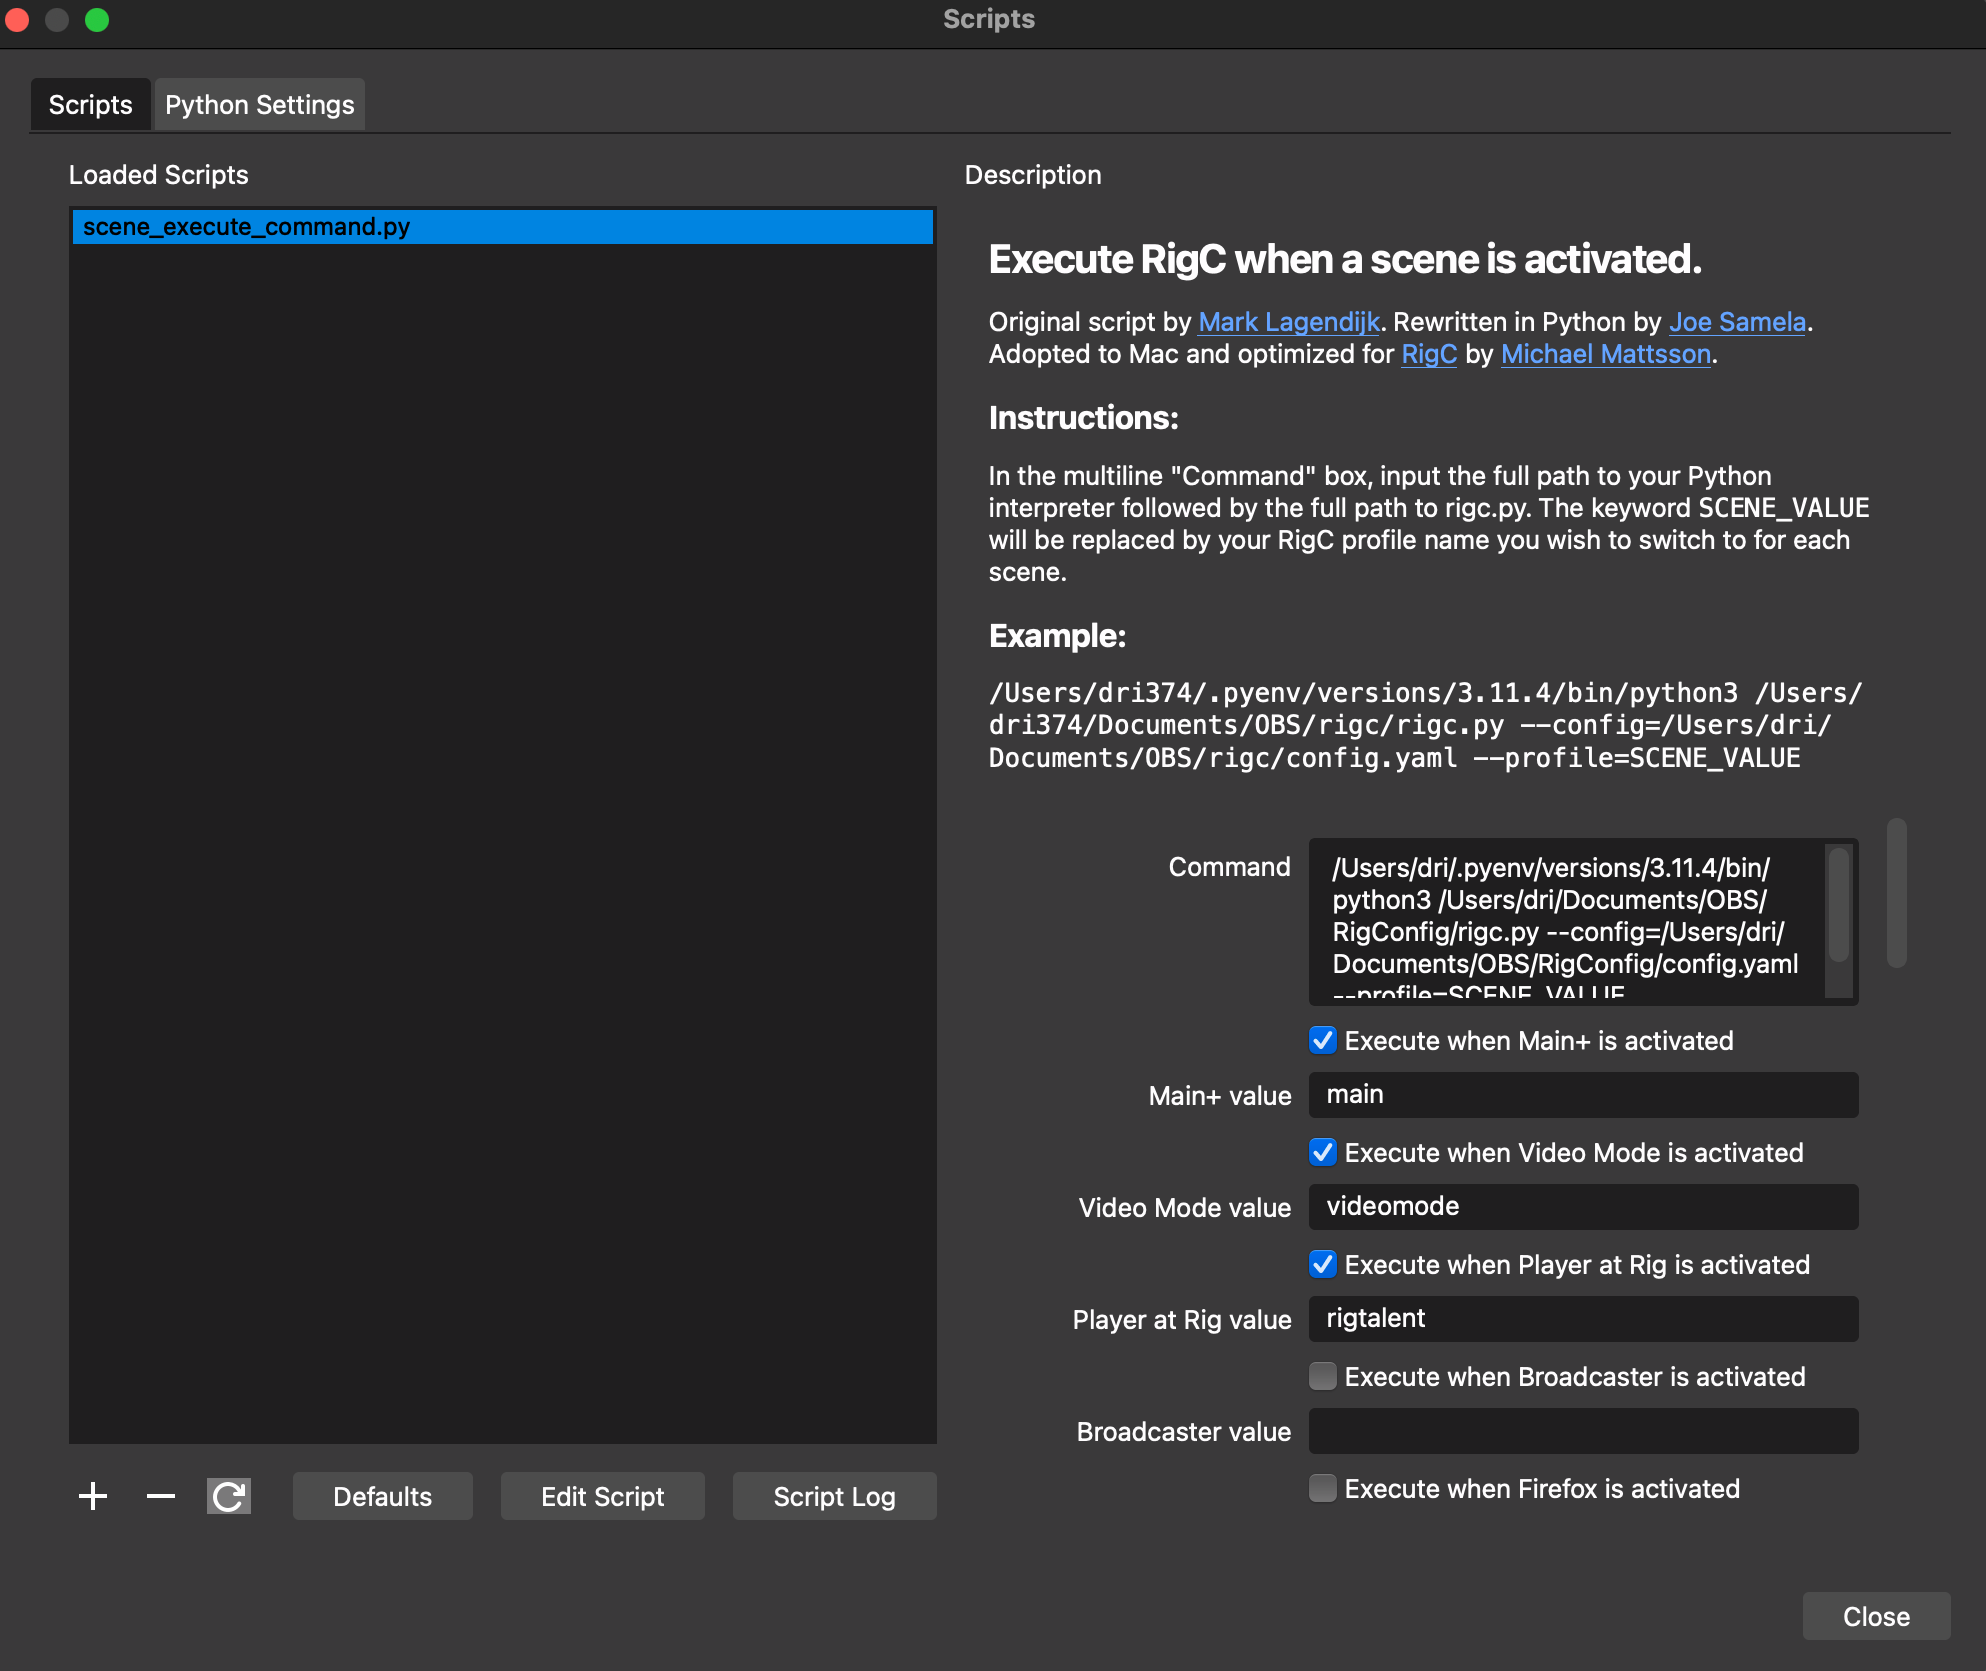
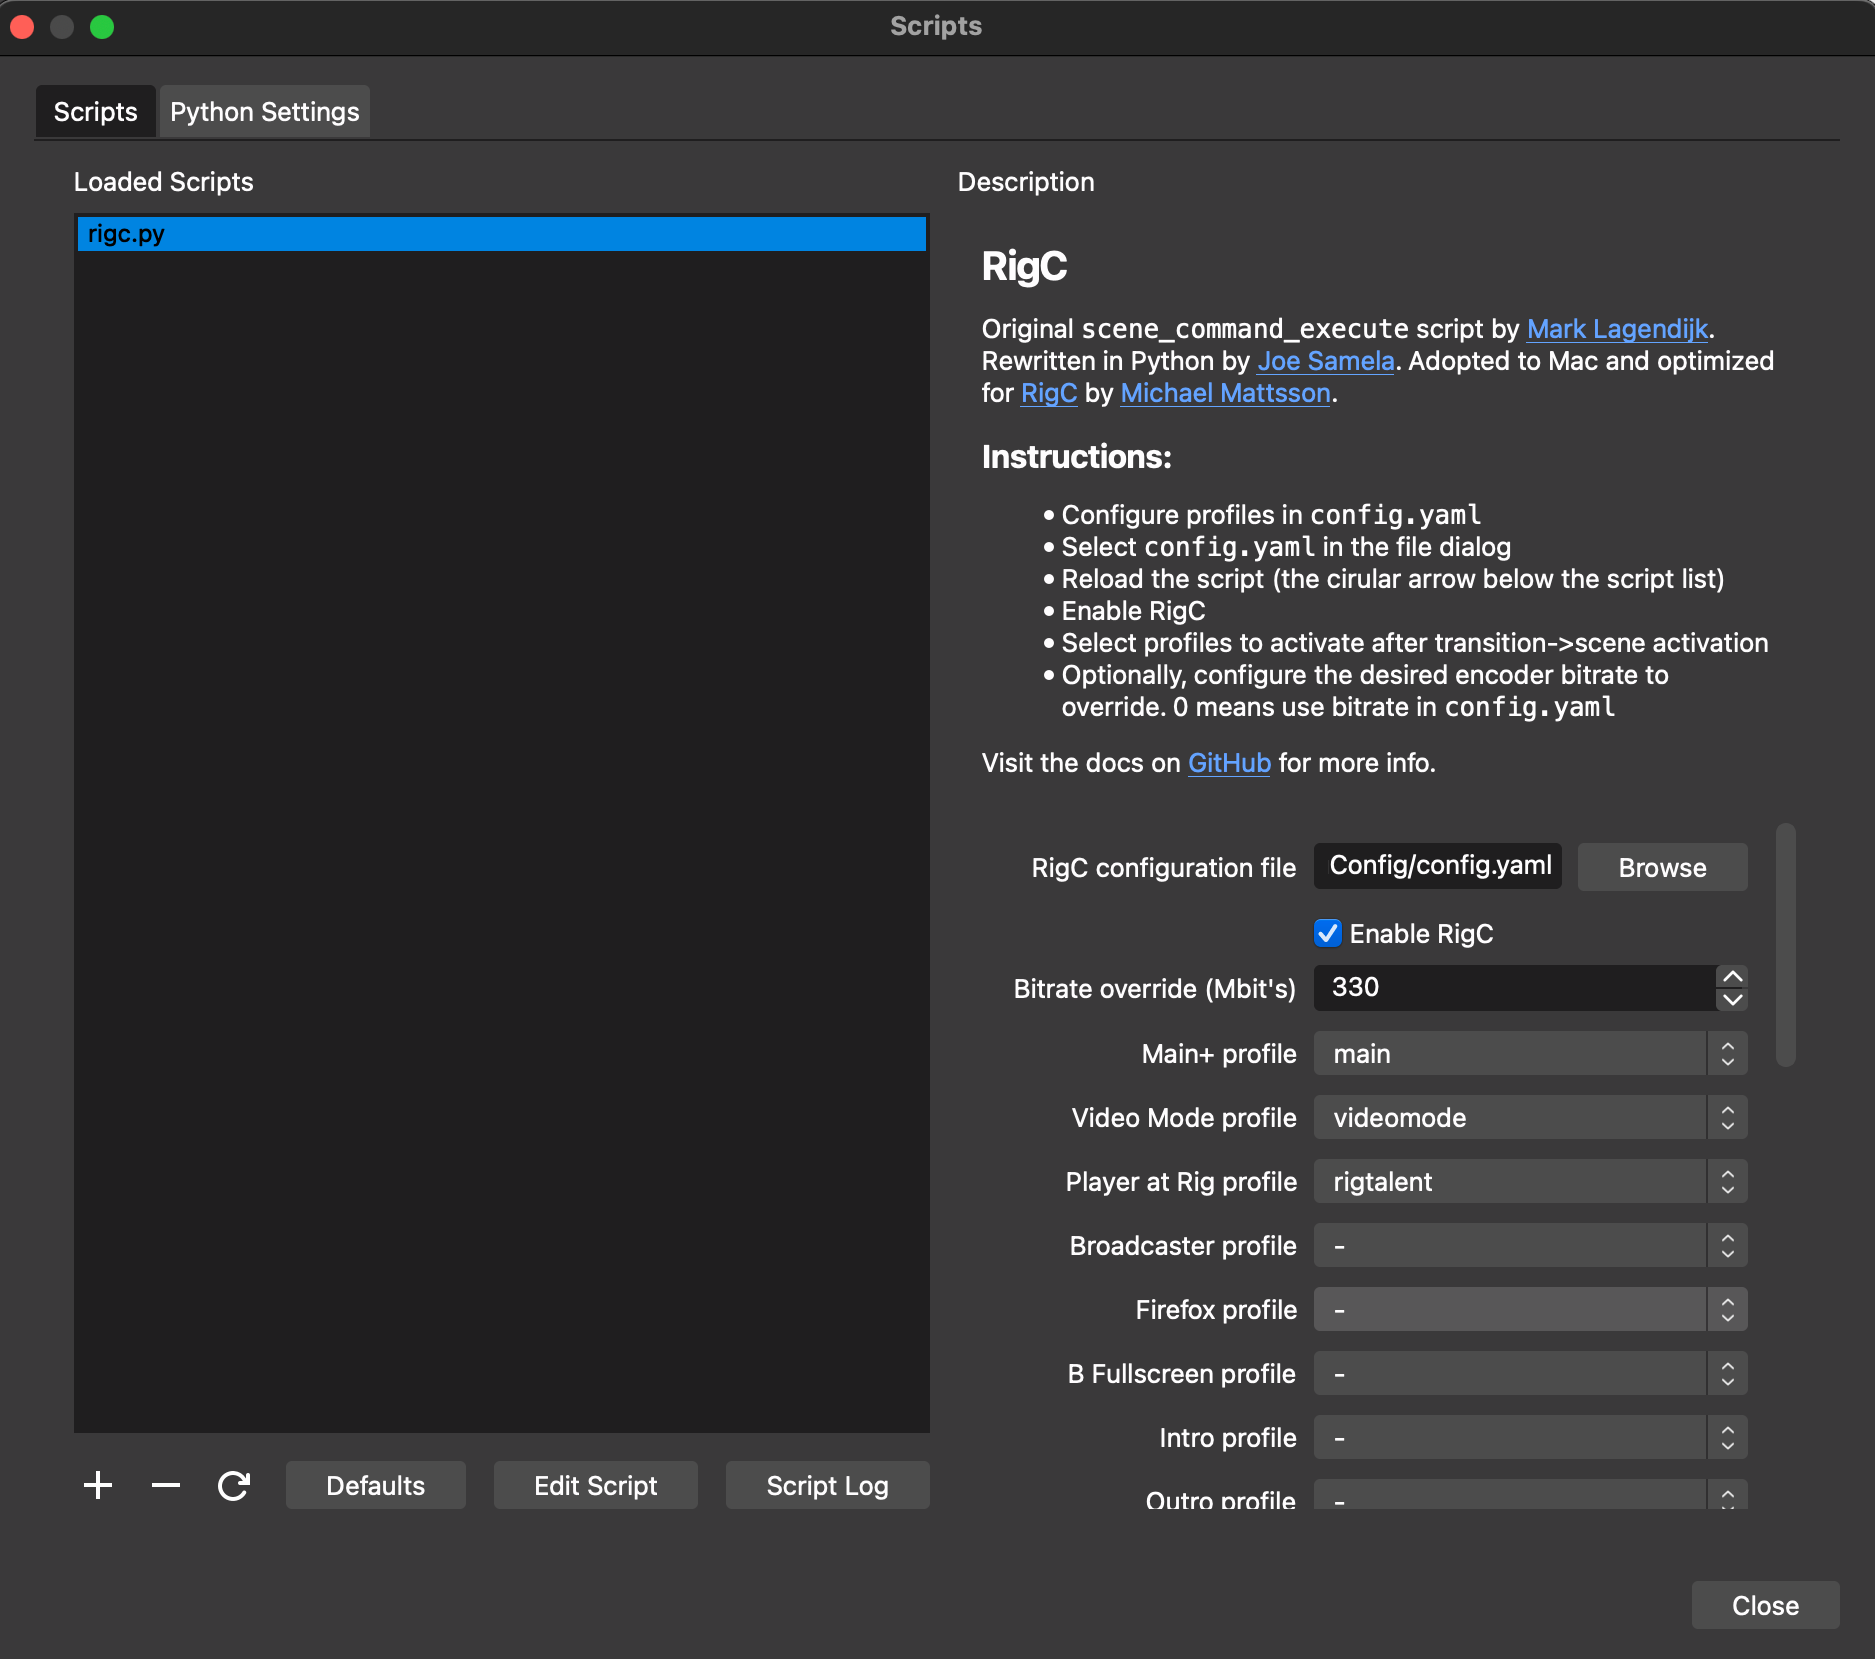
Minor docs updates

diff --git a/README.md b/README.md
@@ -1,13 +1,15 @@
+![](assets/README/rigc.png)
+
 # RigC
 
 RigC (pronounced Rigsy) is a set of Python scripts and modules to configure an NDI encoder and a multiviewer. RigC is meant to be strapped into OBS and apply a configuration for the two devices when a broadcaster switch scenes. Many of the parameters of the two devices are supported for configuring the stream and may run locally over a serial port or a remote socket on a serial gateway. Why RigC? See the [background](#background) story.
 
 ## Synopsis
 
-The command is supposed to be embedded in OBS using the `scene_execute_command.py` script. All paths must be absolute when run from inside OBS, including the Python interpreter. See the [installation](#installation) section.
+The `rigc.py` script is supposed to be embedded in OBS. See the [installation](#installation) section. There's a CLI to help iterate faster on profile configurations.
 
 ```
-./rigc.py --help
+./rigcli.py --help
 Usage: rigc.py [OPTIONS]
 
 Options:
@@ -157,11 +159,9 @@ Go to `Tools -> Scripts -> Python Settings`, select the Python virtual environme
 
 ![](assets/README/obs-python.png)
 
-Next, hit that `+` sign and find `scene_execute_command.py` in the `rigc` repository.
+Next, hit that `+` sign and find `rigc.py` in the `rigc` repository.
 
 ![](assets/README/obs-scripts.png)
-
-
 
 # Bugs and Help
 
